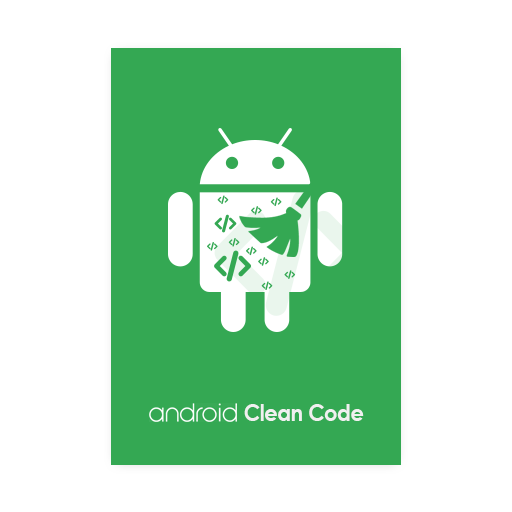
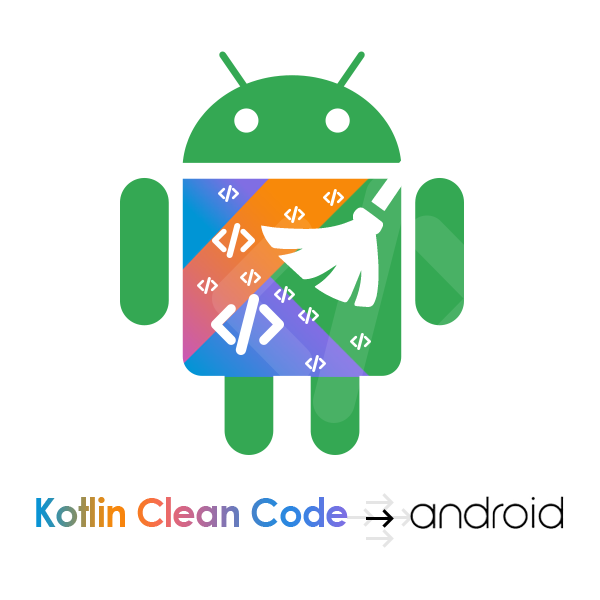
Fix MD with latest gifs and images

diff --git a/README.md b/README.md
@@ -3,6 +3,8 @@
 ##### This design is chosen with a singular focus - testability.
 ##### Example of this template in action [here][5]
 
+![Kotlin Clean4Android Image][9]
+
 ## Quick Start
 *  Clone this project and copy the contents to the following location in your Android Studio
 
@@ -18,6 +20,11 @@
   ```
 
 *  Restart Android Studio - It should work with out any issues
+
+
+### Kotlin CleanCode4Android in Action
+
+![Kotlin CleanCode4Anroid in Action][8]
 
 
 ### Contribute
@@ -48,6 +55,8 @@ This project ideas aren't new in any way. Credit has to be given to the followin
 [2]: http://clean-swift.com
 [3]: https://github.com/googlesamples/android-testing
 [4]: https://riggaroo.co.za/custom-file-templates-android-studio/
-[5]: https://github.com/kmmraj/android-clean-code
+[5]: https://github.com/kmmraj/KotlinCleanCode4Android
 [6]: ./LICENSE
 [7]: https://medium.com/androidstarters/mastering-android-studio-templates-ed8fdd98cb78
+[8]: https://cdn-images-1.medium.com/max/1600/1*uA1xYKC7IOULz0uw6AI55g.gif
+[9]:./acc_android_studio.png
